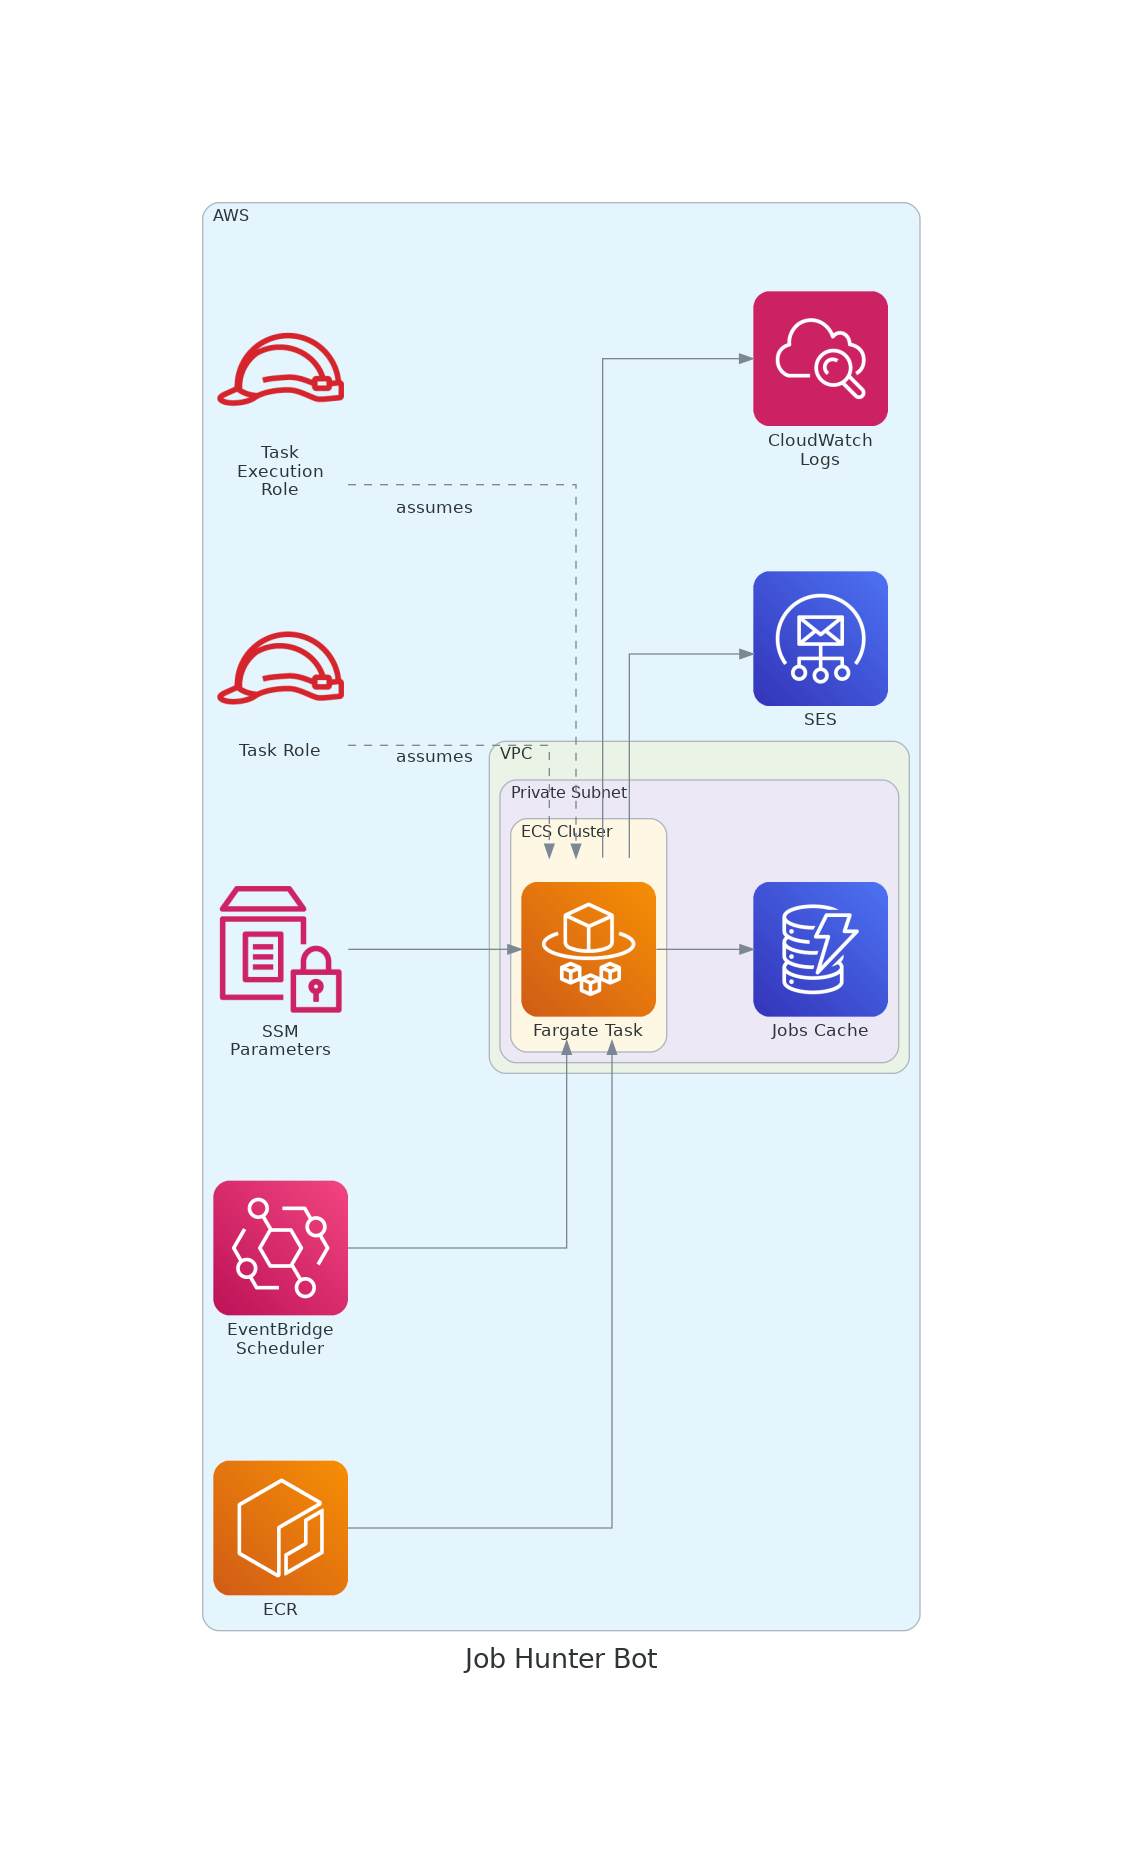
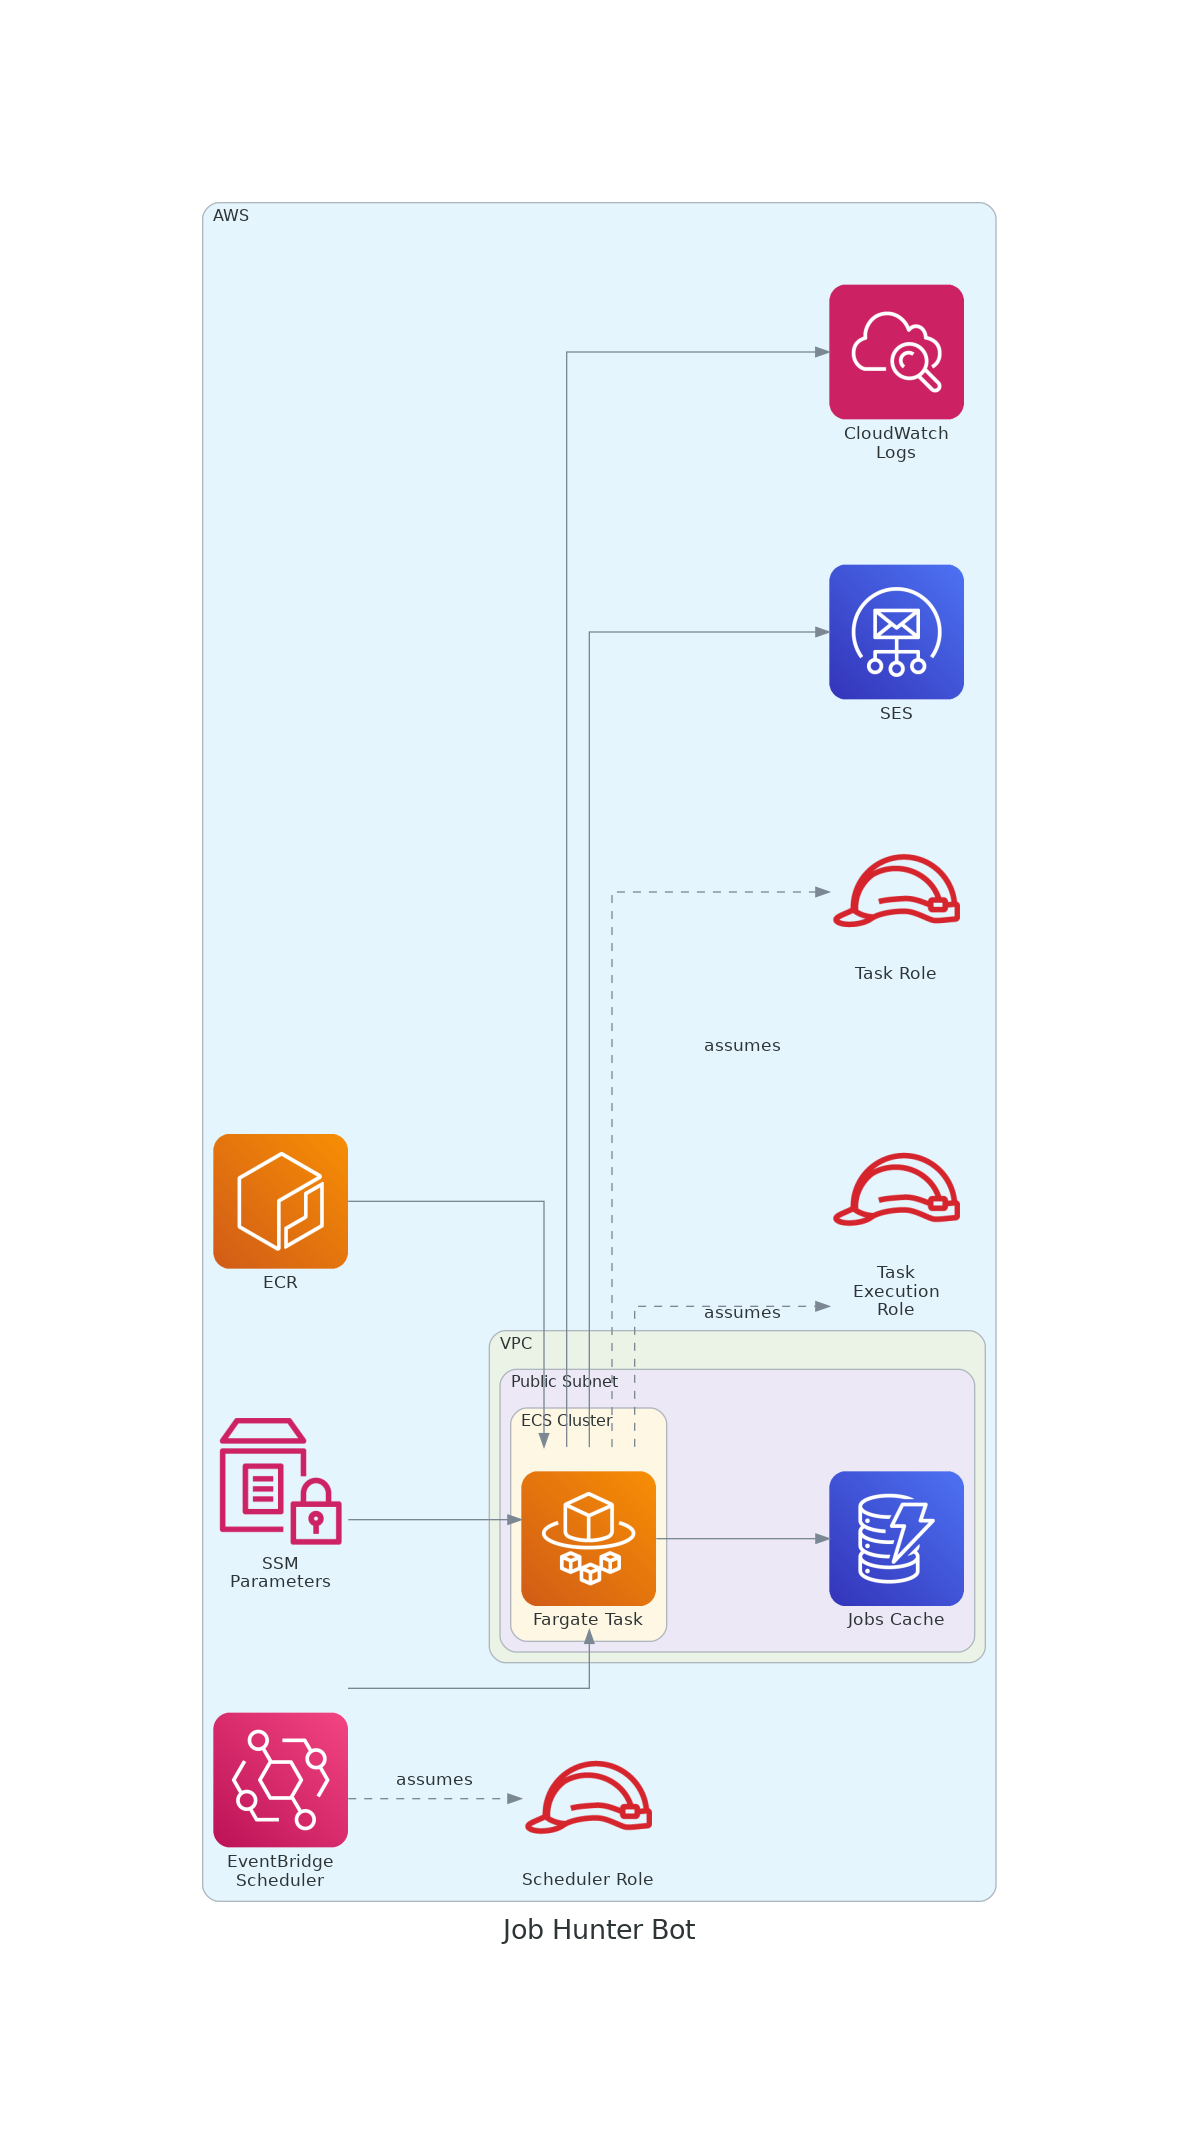
Updates diagram

diff --git a/docs/architecture.py b/docs/architecture.py
@@ -26,7 +26,7 @@ with Diagram(
         # Security
         exec_role = IAMRole("Task\nExecution\nRole")
         task_role = IAMRole("Task Role")
-        scheduler_role = IAMRole("scheduler\nRole")
+        scheduler_role = IAMRole("Scheduler Role")
 
         # Application Infrastructure
         ssm = ParameterStore("SSM\nParameters")
@@ -47,8 +47,9 @@ with Diagram(
     ssm >> worker  # task reads config at startup
 
     # IAM
-    exec_role >> Edge(style="dashed", label="assumes") >> worker
-    task_role >> Edge(style="dashed", label="assumes") >> worker
+    worker >> Edge(style="dashed", label="assumes") >> exec_role
+    worker >> Edge(style="dashed", label="assumes") >> task_role
+    scheduler >> Edge(style="dashed", label="assumes") >> scheduler_role
 
     # Outputs
     worker >> cache  # reads/writes job cache
